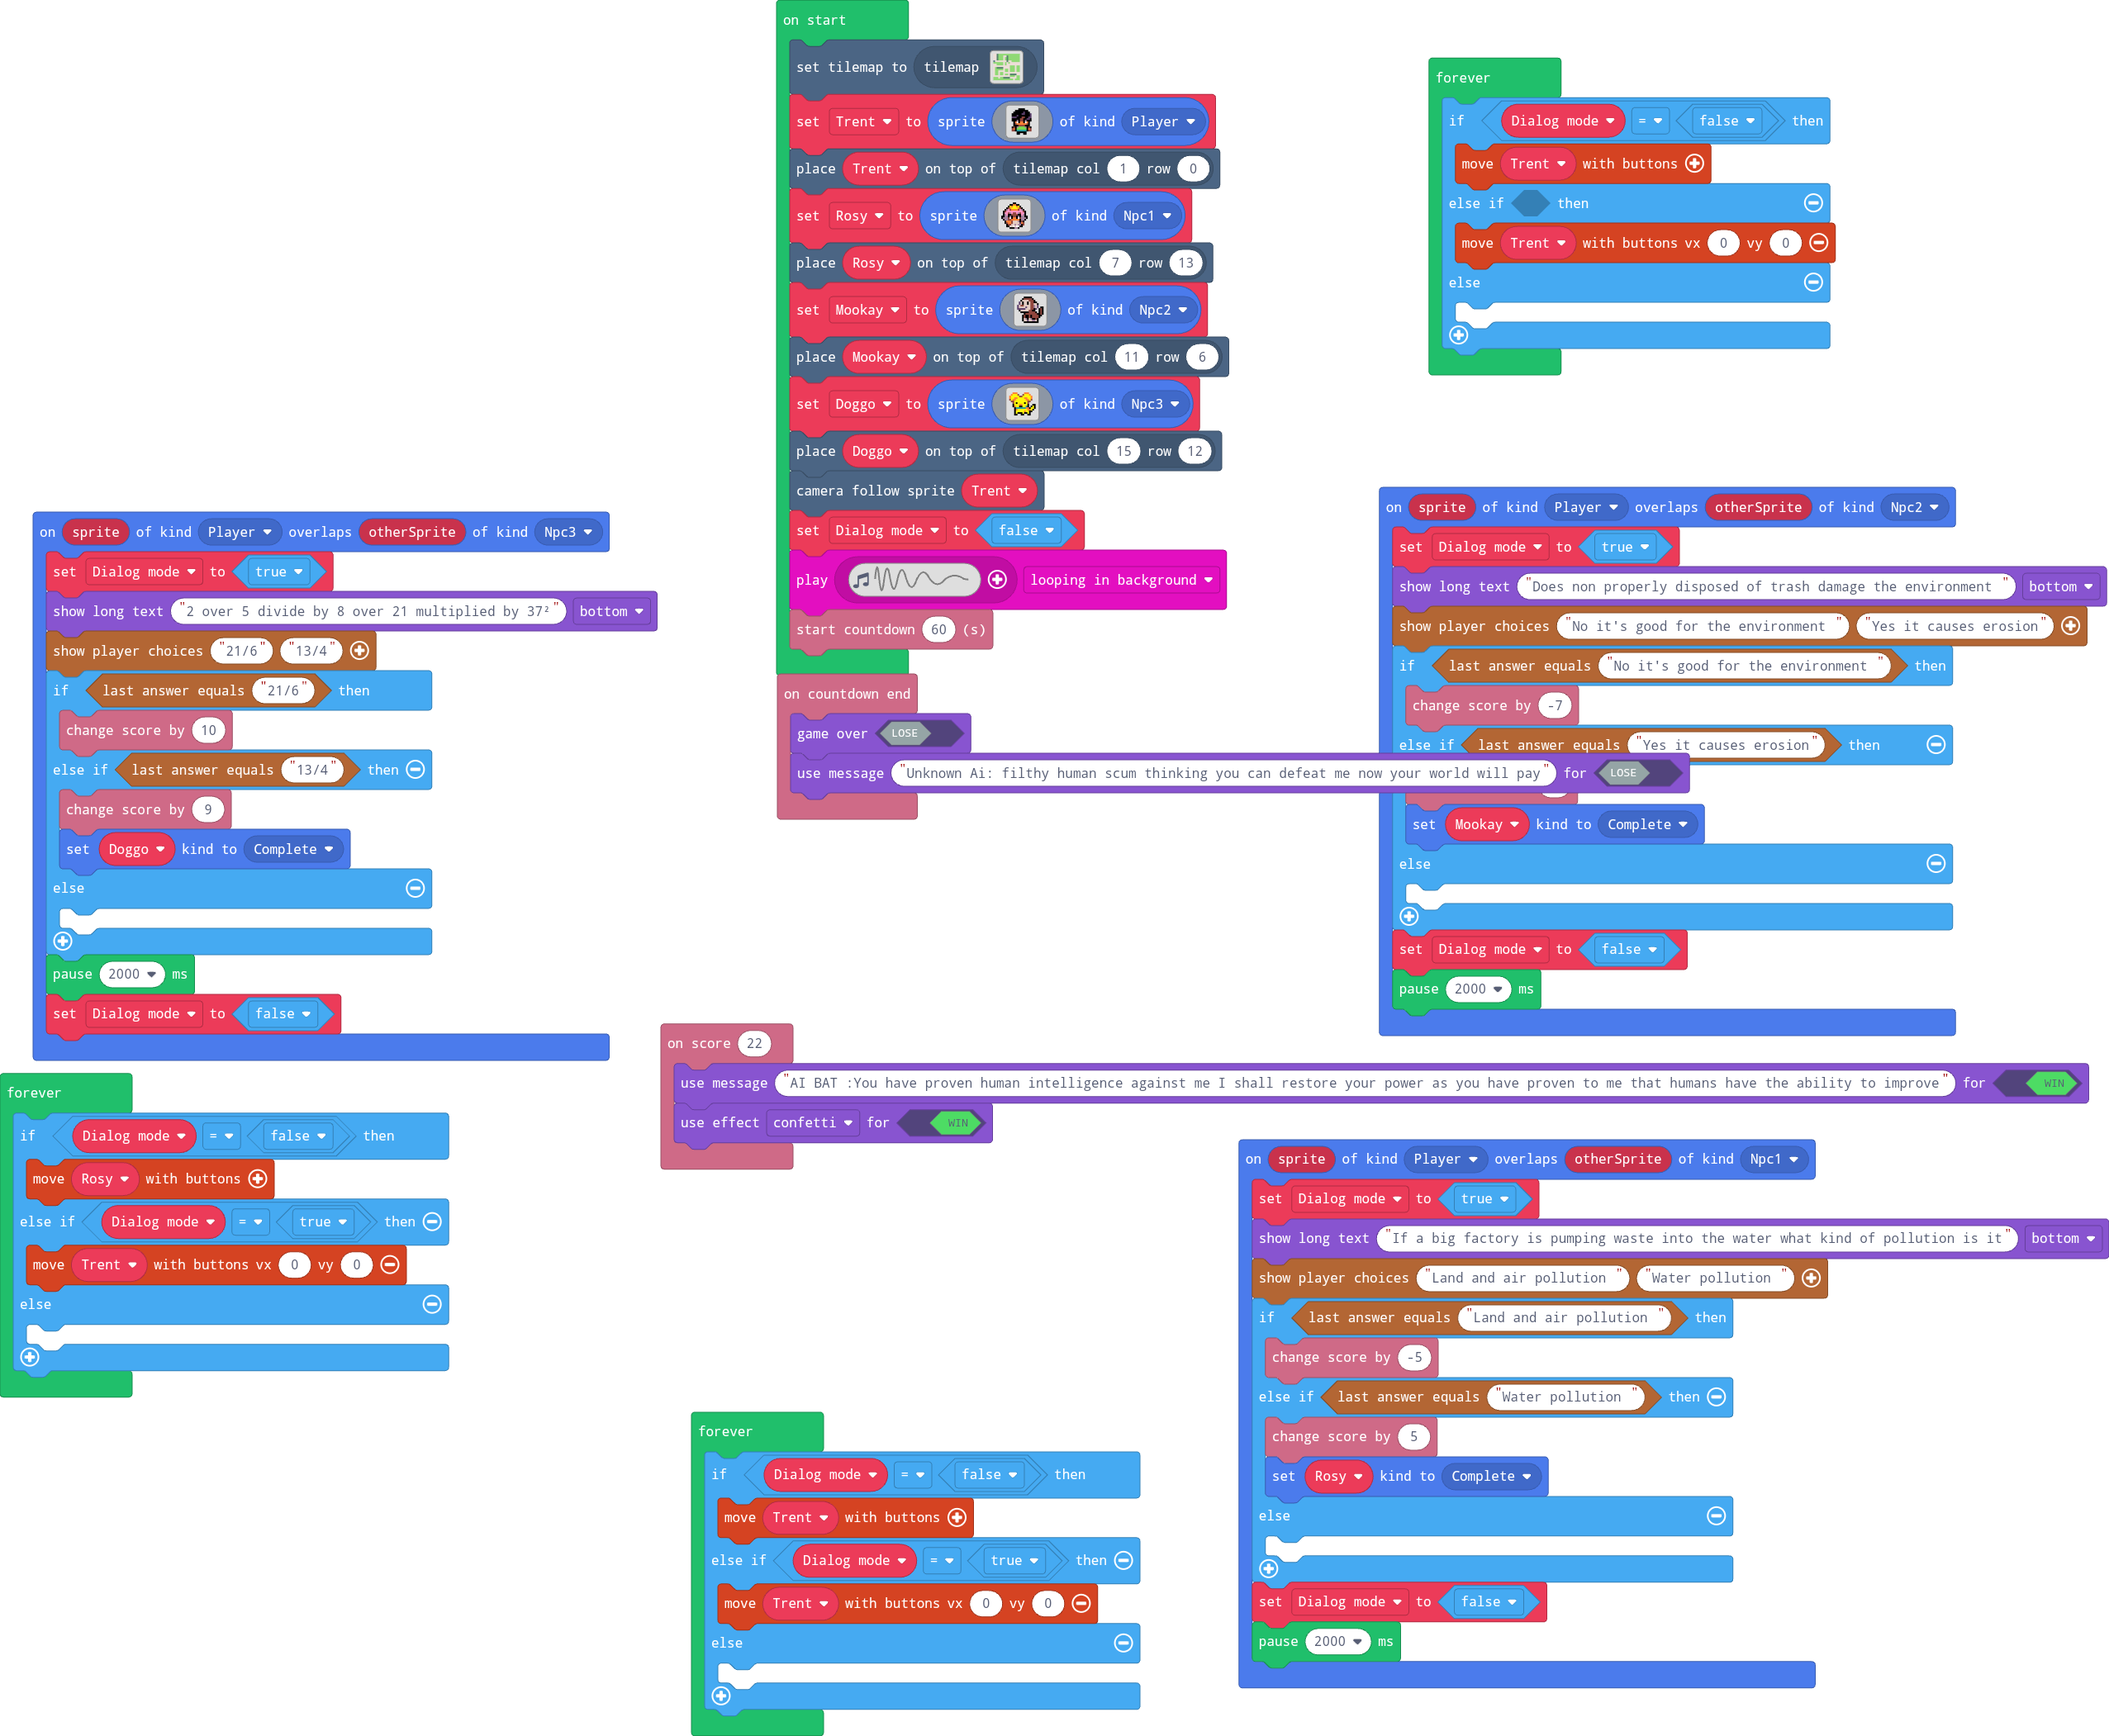
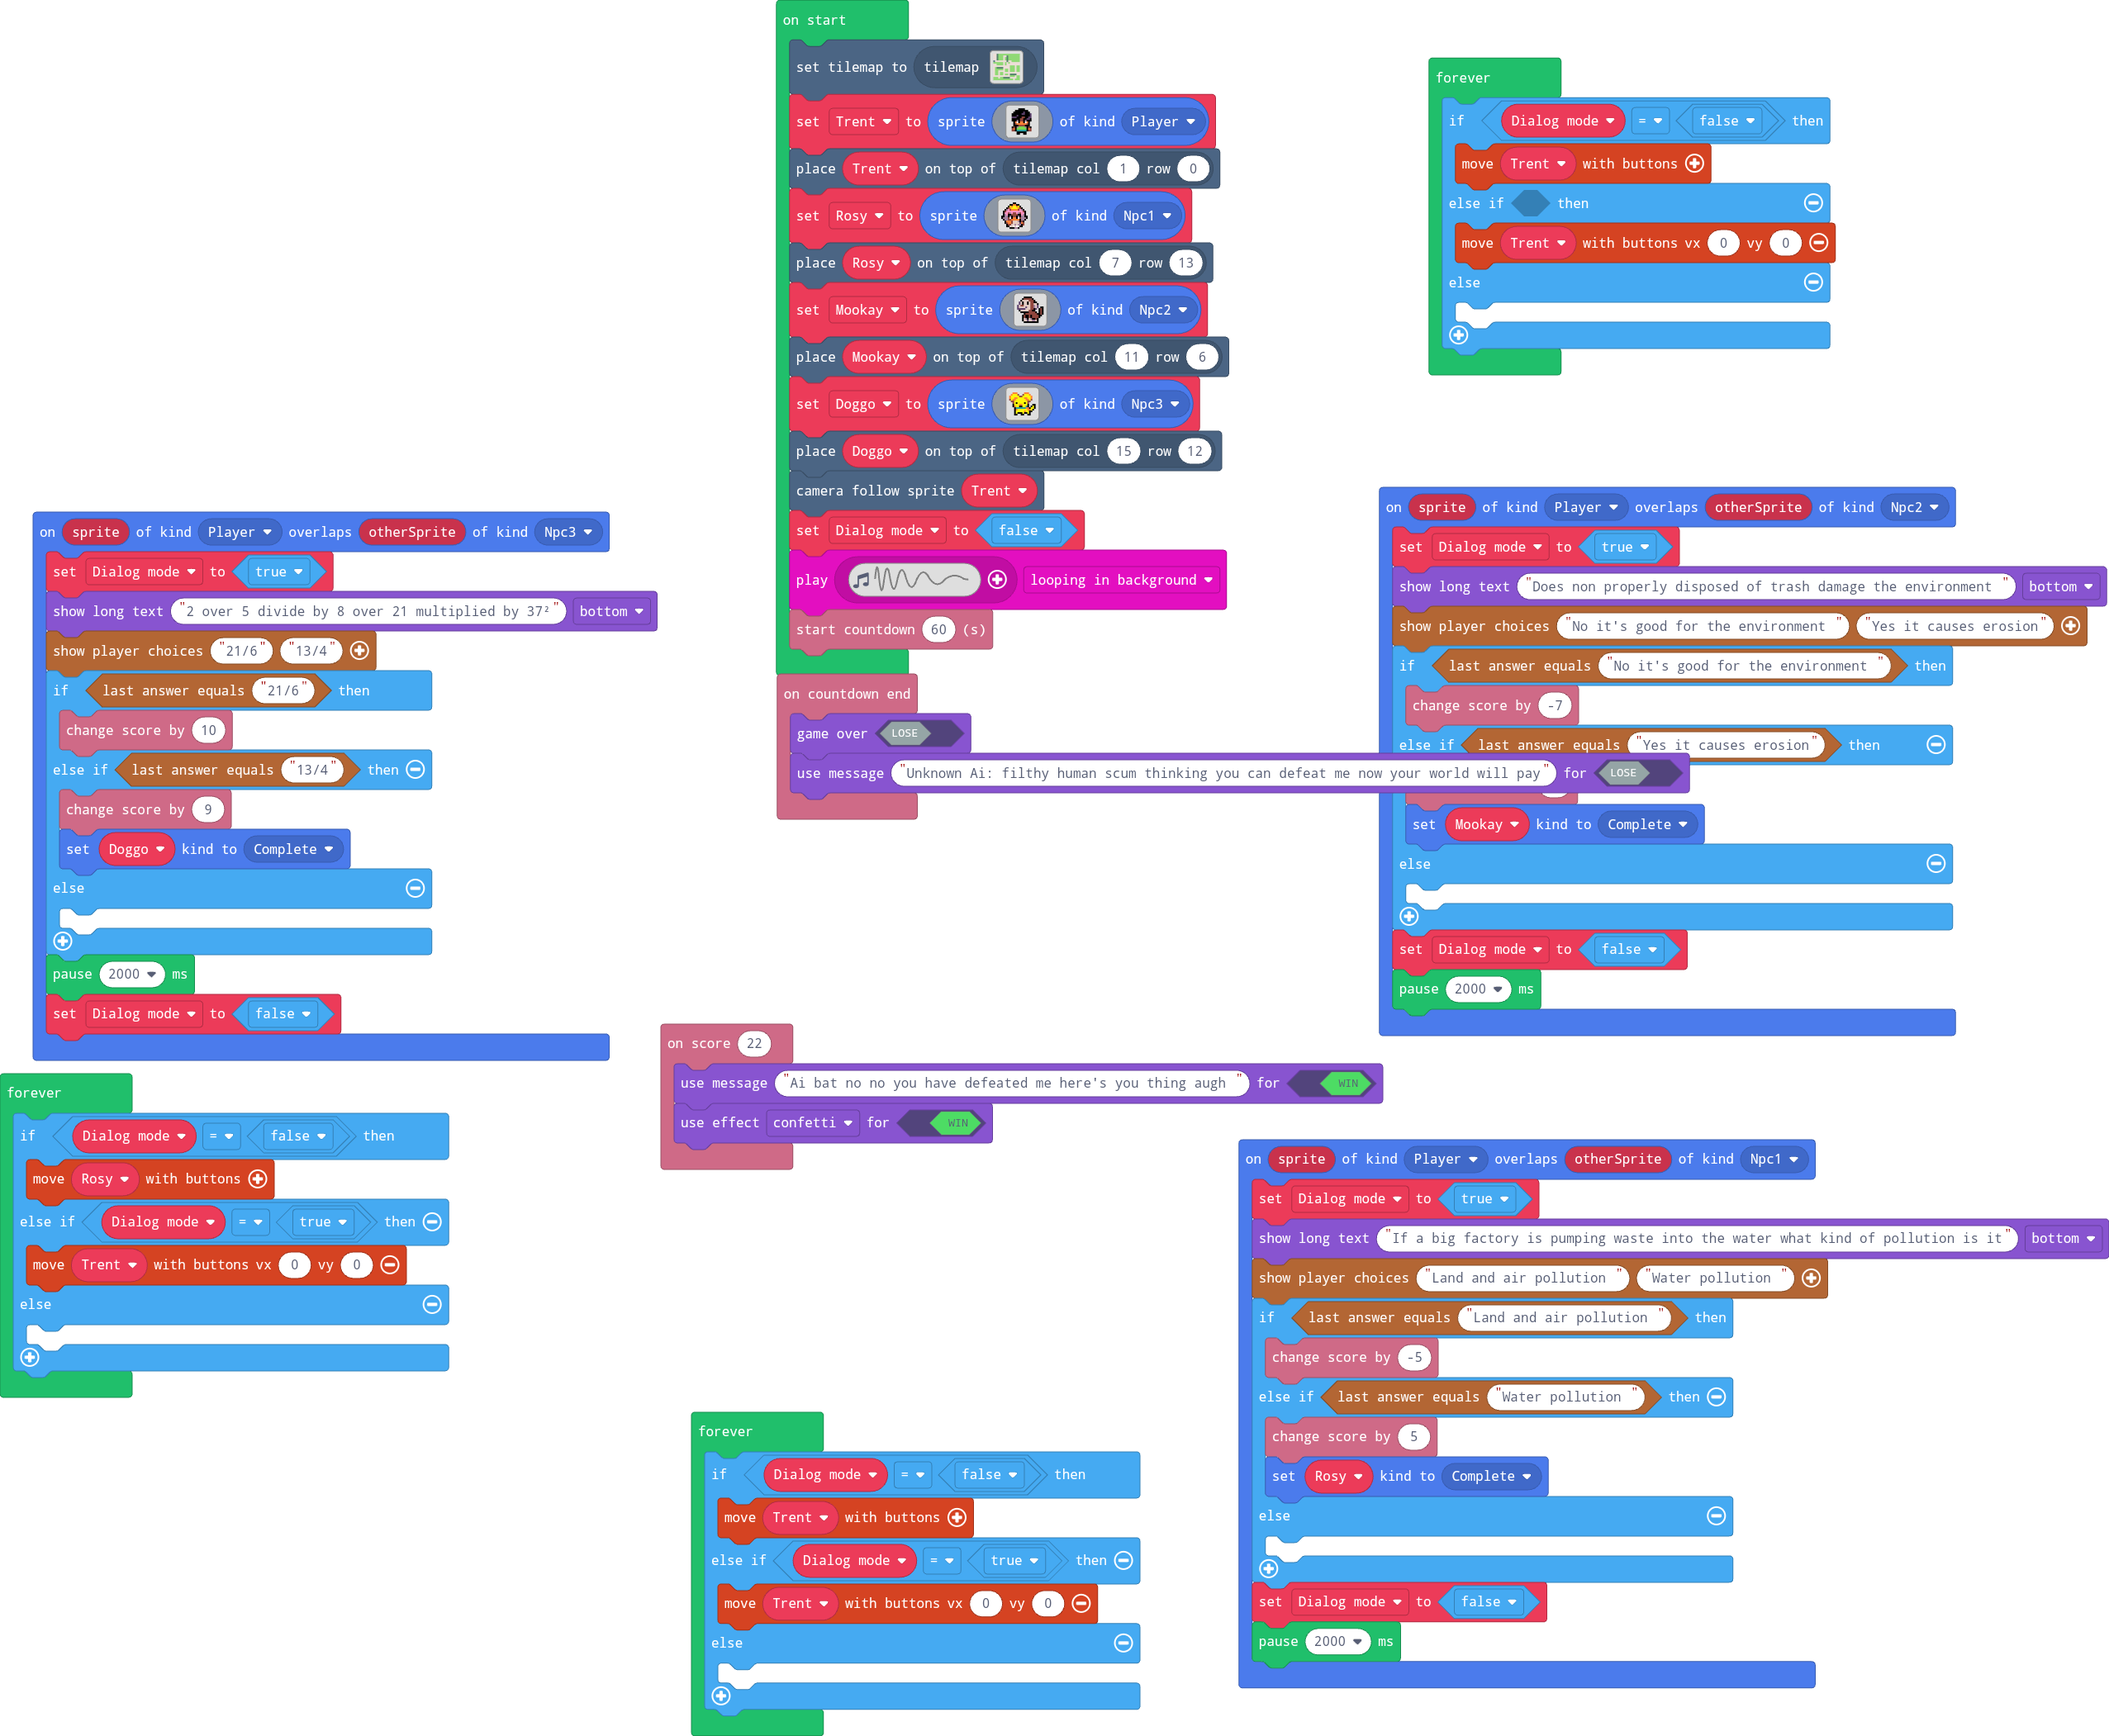
Update pxt.json, main.blocks, main.ts

Changed region(s): [[0.4642, 0.5875, 0.9902, 0.6494], [0.4023, 0.6185, 0.4332, 0.6494]]

diff --git a/main.ts b/main.ts
@@ -39,7 +39,7 @@ sprites.onOverlap(SpriteKind.Player, SpriteKind.Npc2, function (sprite, otherSpr
     pause(2000)
 })
 info.onScore(22, function () {
-    game.setGameOverMessage(true, "AI BAT :You have proven human intelligence against me I shall restore your power as you have proven to me that humans have the ability to improve")
+    game.setGameOverMessage(true, "Ai bat no no you have defeated me here's you thing augh ")
     game.setGameOverEffect(true, effects.confetti)
 })
 sprites.onOverlap(SpriteKind.Player, SpriteKind.Npc3, function (sprite, otherSprite) {
